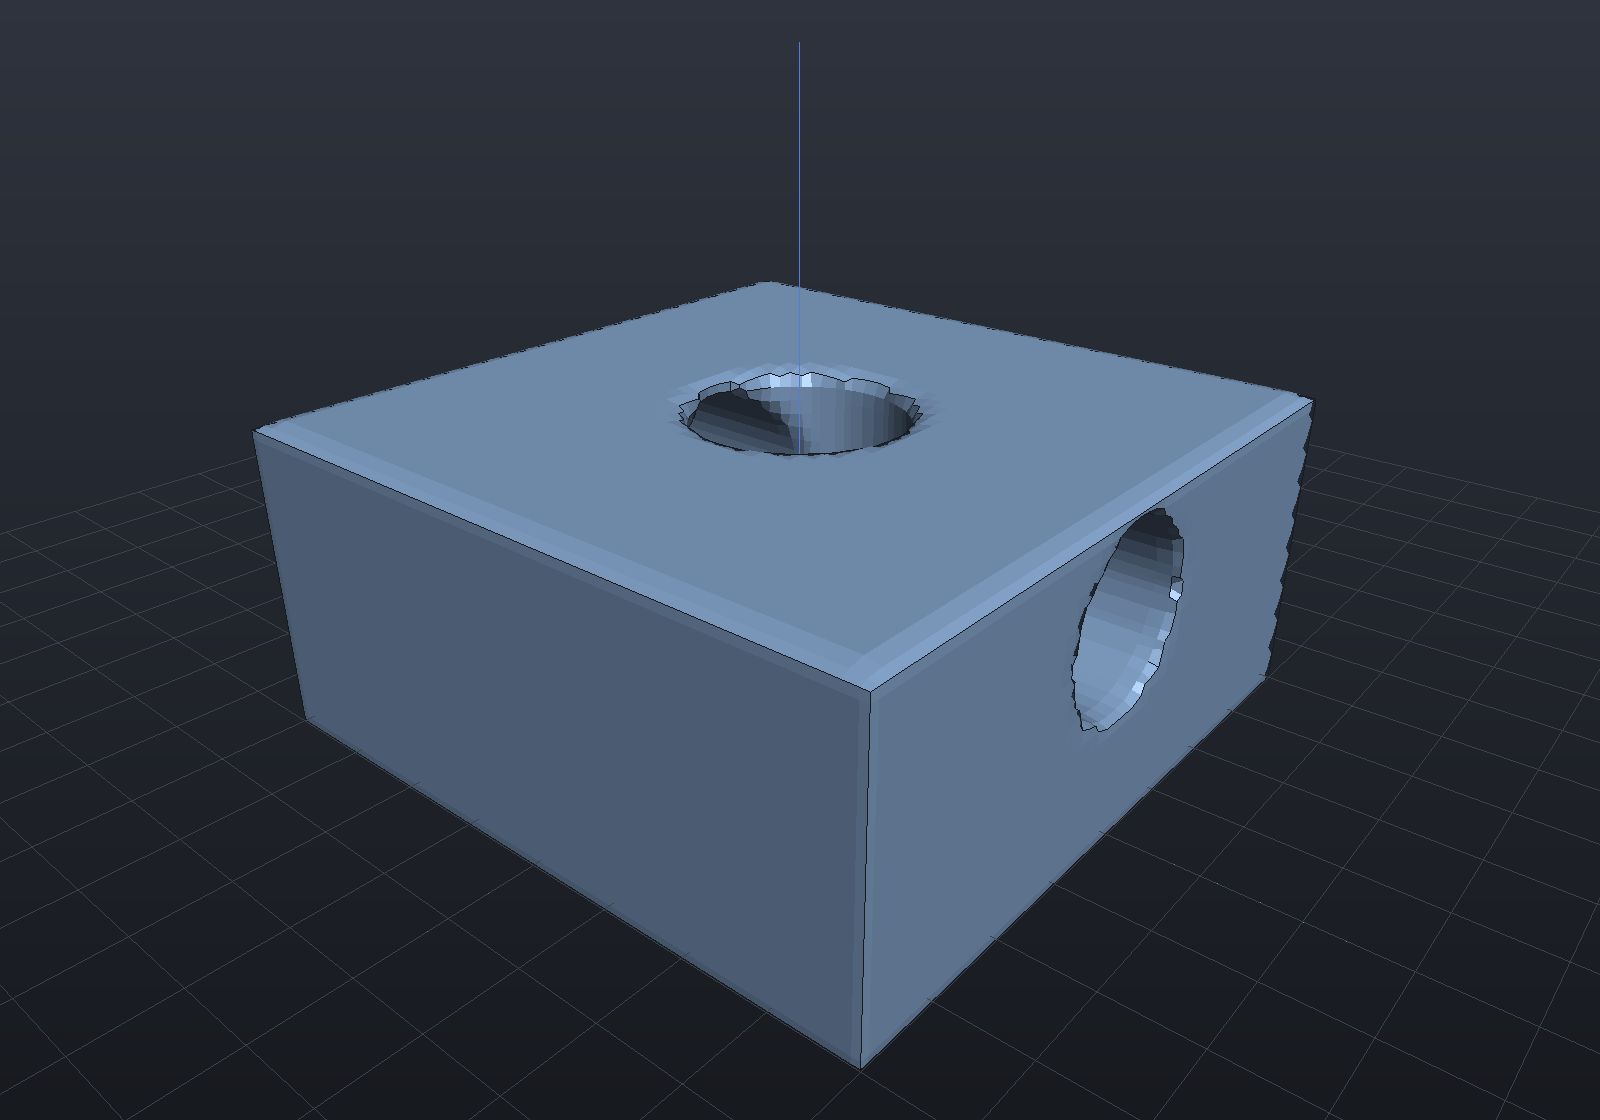
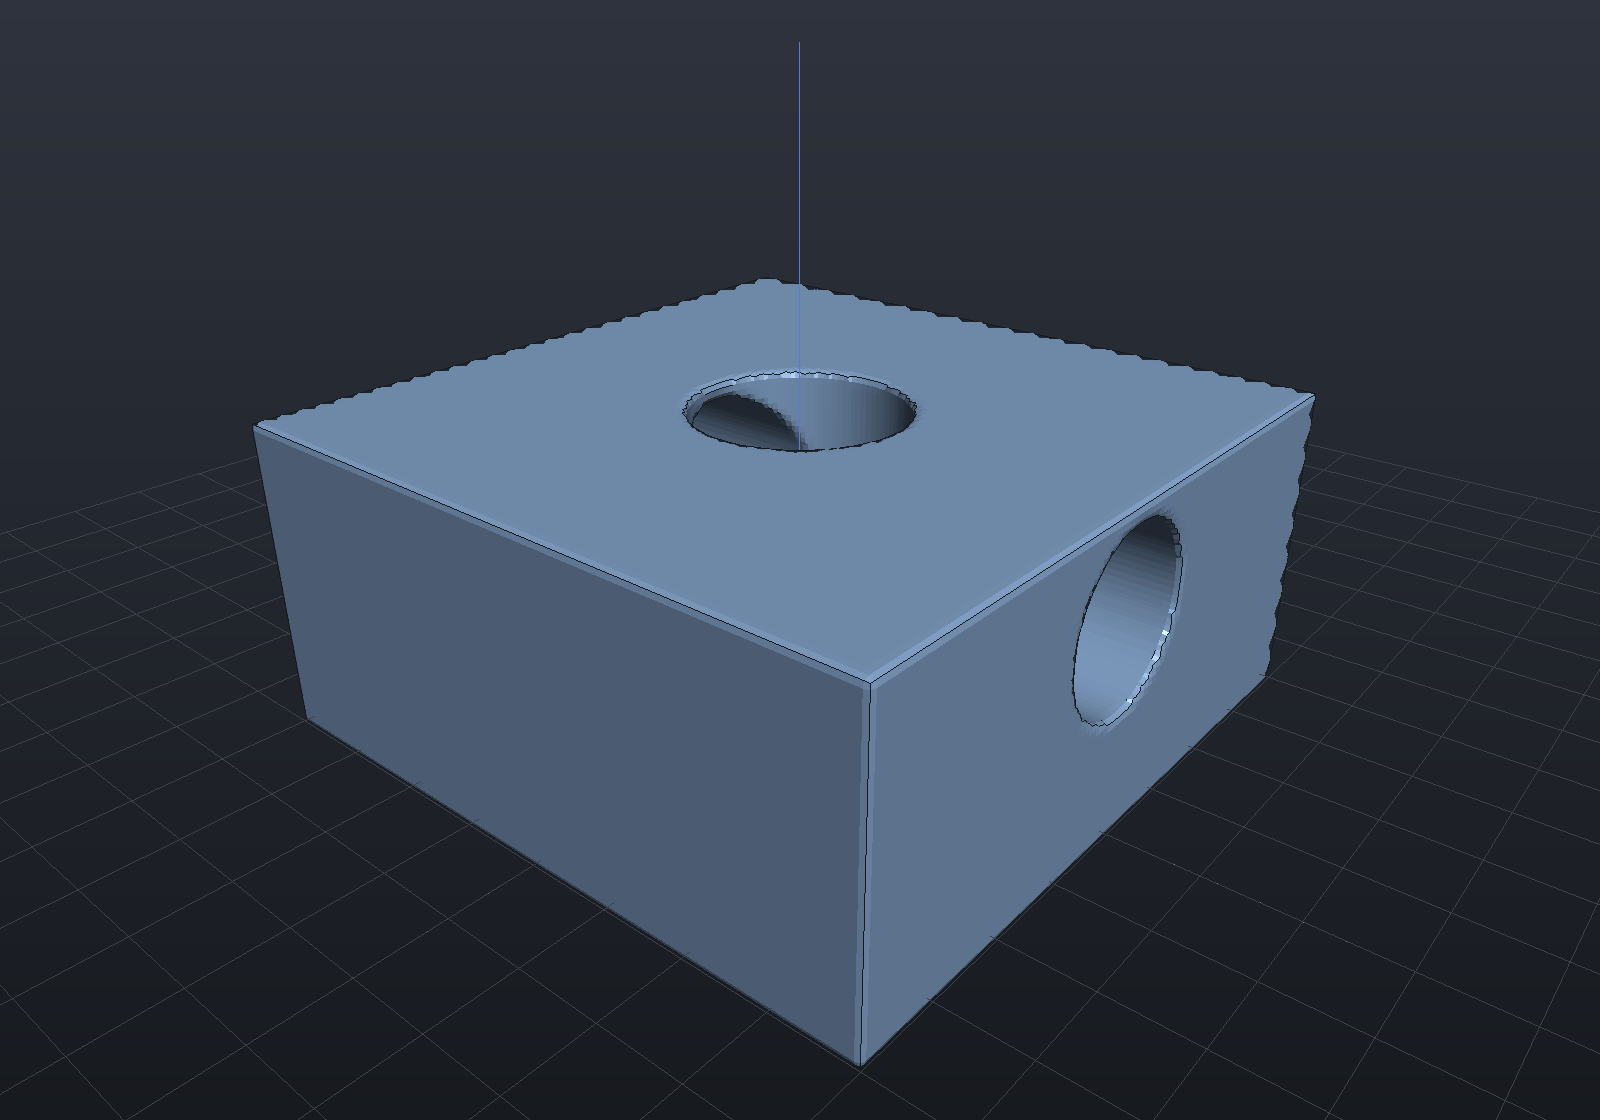
Docs: GitHub Pages workflow, DocsGen README, site link fixes
- .github/workflows/docs.yml: build solution -> run DocsGen (WARP-capable
  windows runner; falls back to committed PNGs if no GL, snippet failures
  still fail) -> docfx -> upload-pages-artifact -> deploy-pages, with the
  pages permissions block and concurrency group. Activates as soon as Pages
  is set to GitHub Actions in the repo settings.
- tools/EngrCAD.DocsGen/README.md; api/ prose links fixed for docfx; sharper
  section-cutaway render; scratch/ removed from tracking.

— senior-dev

diff --git a/tools/EngrCAD.DocsGen/README.md b/tools/EngrCAD.DocsGen/README.md
@@ -1,0 +1,21 @@
+# EngrCAD.DocsGen
+
+Executes the C# snippets embedded in `docs/**/*.md` and renders their scenes to PNGs,
+so every example in the documentation is compiled, run, and screenshotted by the
+build — examples cannot drift from the code.
+
+- Convention (full contract in `docs/writing-examples.md`): fences tagged
+  ` ```csharp render:<id> ` (must define `Scene scene`; rendered to
+  `docs/examples/images/<id>.png`) or ` ```csharp run:<id> ` (executed only).
+- Snippets run as Roslyn C# scripts referencing the kernel assemblies, with the
+  EngrCAD namespaces imported and a `Scratch` temp-directory global for file output.
+- Exit code is nonzero on any compile/run failure, missing `scene`, duplicate id, or
+  unreferenced image. If offscreen GL is unavailable (`EngrCad.CanRenderToImage`
+  false), rendering is skipped with a warning and the committed PNGs are kept —
+  correctness failures still fail the build.
+
+```
+dotnet run --project tools/EngrCAD.DocsGen -- docs [--images <dir>] [--no-render]
+```
+
+Used locally and by `.github/workflows/docs.yml` before `dotnet docfx docs/docfx.json`.

diff --git a/docs/index.md b/docs/index.md
@@ -27,7 +27,7 @@ HalfEdgeMesh mesh  = body.ToMesh();      // rendering, FEA, 3D printing
 - **[Examples](examples/toc.yml)** — one page per feature, each with runnable code and
   the render it produces. Every snippet is compiled, executed, and screenshotted by
   the documentation build itself, so the examples cannot drift from the code.
-- **[API reference](api/)** — generated from the source XML documentation.
+- **[API reference](api/index.md)** — generated from the source XML documentation.
 
 ## Highlights
 

diff --git a/docs/examples/viewer.md b/docs/examples/viewer.md
@@ -70,7 +70,7 @@ var block = Shape.Box(40, 40, 24)
 
 var sectioned = block - Shape.Box(60, 60, 40).Translate(0, 0, 26);  // clip above z = 6
 
-var scene = new Scene();
+var scene = new Scene(new MeshQuality { SdfResolution = 140 });
 scene.Add(new Part("sectioned block", sectioned, Palette.Steel,
     Matrix4d.CreateTranslation((0, 0, 12))));
 ```

diff --git a/docs/getting-started.md b/docs/getting-started.md
@@ -95,4 +95,4 @@ representation), or *Impossible* — see
 
 - Browse the [examples](examples/toc.yml) — every page's code is executed and rendered
   by the documentation build, so it is guaranteed current.
-- Skim the [API reference](api/) for the full surface.
+- Skim the [API reference](api/index.md) for the full surface.
